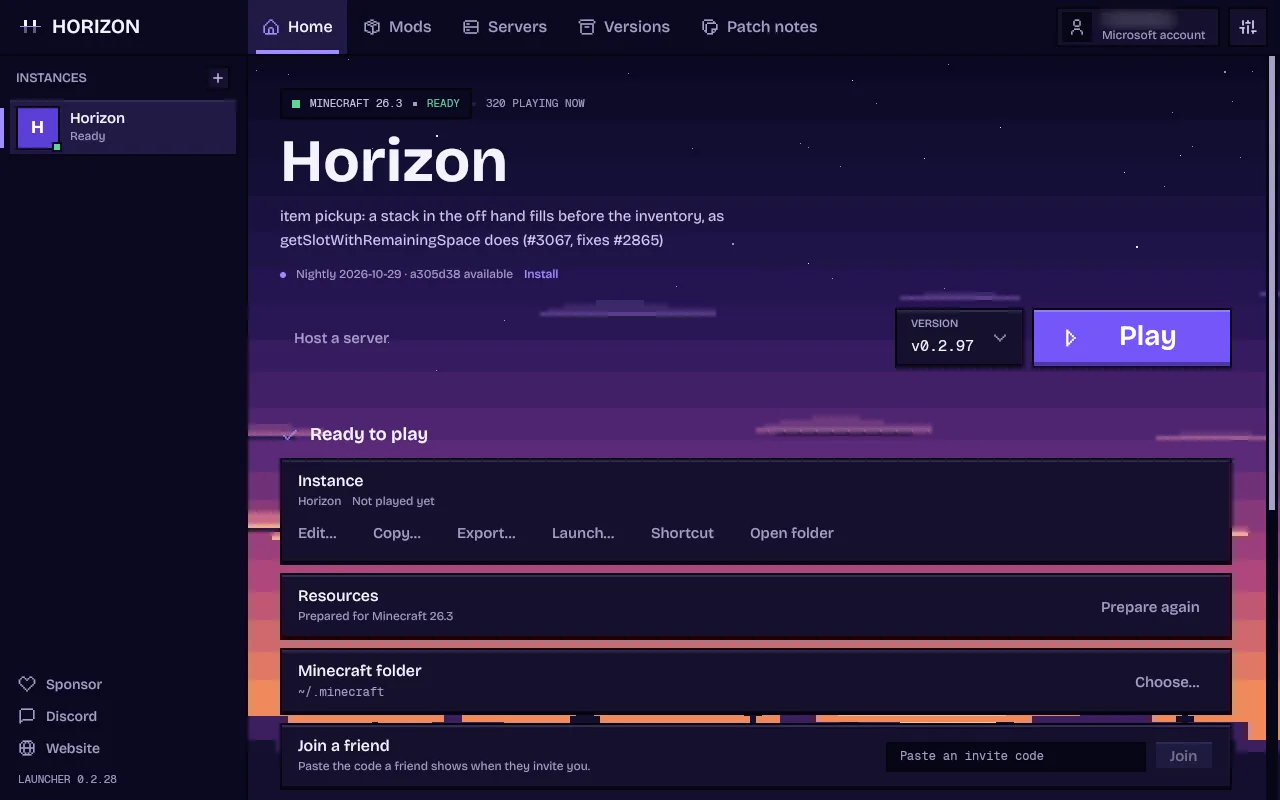
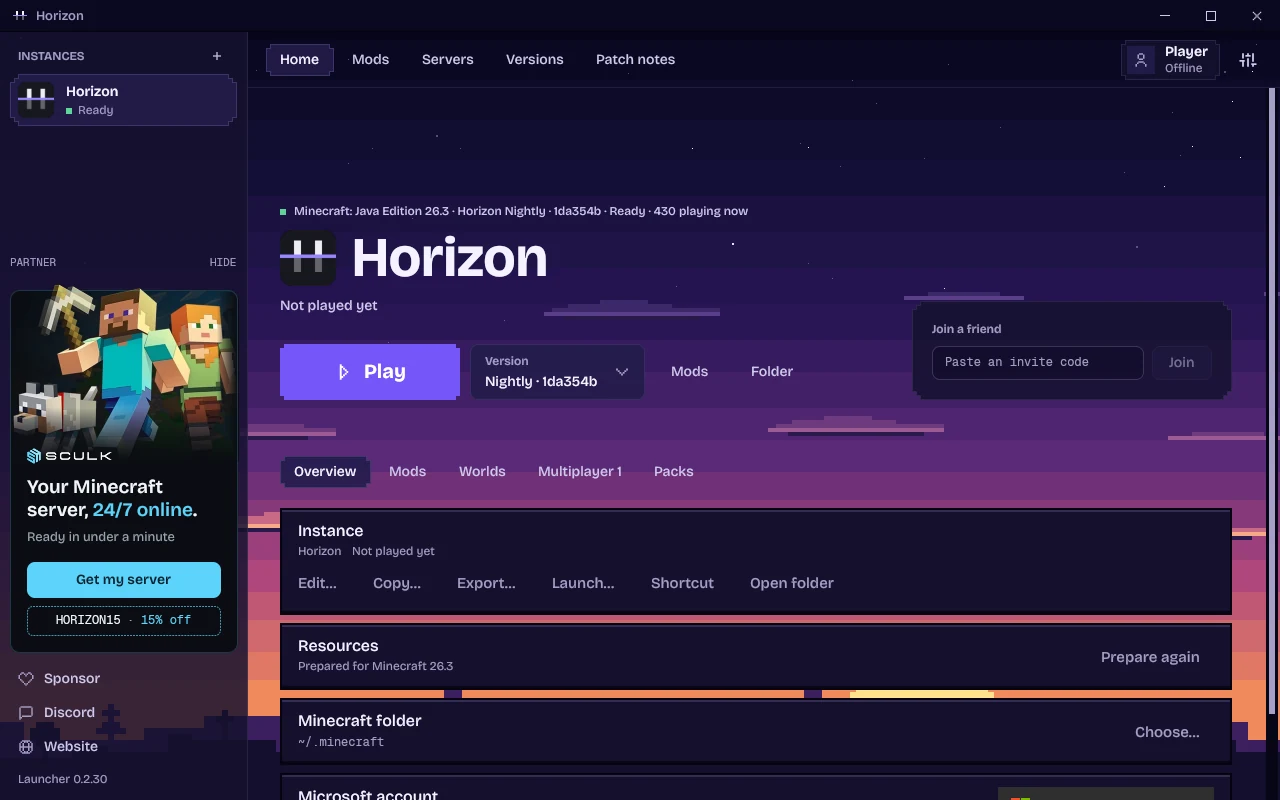
README: shorter text, launcher screenshots from 0.2.30
Trims each section to what a reader needs and links the docs for the
rest, about 35% fewer words. The generated gap block and the parity
table's format are unchanged (tests/test_parity*.py).

The Home and Settings screenshots were taken with launcher 0.2.30, which
moved the window to the new layout (instance tabs, Join a friend, accent
colours); the old ones showed 0.2.28.

diff --git a/README.md b/README.md
@@ -24,34 +24,32 @@
 
 # Horizon
 
-Horizon is Minecraft: Java Edition 26.3 rewritten in Rust: a native game that reads the same worlds, follows the same rules and generates the same terrain as the Java game, and is checked against it by more than 300 differential harnesses. You play it through a small launcher, on the files from your own copy of Minecraft. It is free, open source and unofficial.
+Minecraft: Java Edition 26.3, rewritten in Rust. Same worlds, same rules, same terrain, checked against the Java game by more than 300 differential harnesses. Free, open source and unofficial.
 
-> Not an official Minecraft product. Not approved by or associated with Mojang or Microsoft. Horizon contains no Minecraft code, assets or data: you need your own legally obtained copy of Minecraft: Java Edition 26.3.
+> Not an official Minecraft product, nor approved by or associated with Mojang or Microsoft. Horizon contains no Minecraft code, assets or data: you need your own copy of Java Edition 26.3.
 
 ## Download
 
-Horizon is installed through **the Horizon launcher**. Get it from [playhorizon.dev](https://playhorizon.dev) (the Download button picks your system) or from [the launcher releases](https://github.com/horizon-rust/horizon/releases?q=launcher-v&expanded=true), for Linux x86-64, macOS on Apple Silicon or Windows x64. The launcher installs the game and keeps it up to date with each new build (Horizon ships on one channel, the Nightly), prepares its files from your copy of Minecraft (your own install, or downloaded from Mojang for your account), and updates itself.
+Get **the Horizon launcher** from [playhorizon.dev](https://playhorizon.dev) or [the launcher releases](https://github.com/horizon-rust/horizon/releases?q=launcher-v&expanded=true) (Linux x86-64, macOS on Apple Silicon, Windows x64). It installs and updates the game, prepares its files from your copy of Minecraft, and updates itself.
 
-**You need** a Microsoft account that owns Minecraft: Java Edition (the launcher signs in with it, as other launchers do; see [Microsoft account](docs/microsoft-account.md)) and a GPU with Vulkan or OpenGL 3.3 on Linux, Vulkan or DirectX 12 on Windows, or any Apple Silicon Mac. Nothing else: with no Minecraft on your computer, Play downloads 26.3 and the Java it needs from Mojang for your account, as the official launcher does, then prepares it once. An install you already have (the official launcher, Prism, MultiMC and other launchers all work) is used instead. Step by step, with macOS's first-open prompt and the first launch: [Install and first launch](https://playhorizon.dev/docs/install).
+**You need** a Microsoft account that owns Java Edition ([why](docs/microsoft-account.md)) and a GPU with Vulkan or OpenGL 3.3 (Linux), Vulkan or DirectX 12 (Windows), or an Apple Silicon Mac. An existing Minecraft install (official launcher, Prism, MultiMC...) is reused; without one, Play downloads 26.3 from Mojang for your account. Step by step: [Install and first launch](https://playhorizon.dev/docs/install).
 
 <table>
   <tr>
-    <td width="50%"><img src="docs/media/launcher-play.webp" alt="The launcher's Home page: the selected instance ready to play, Minecraft's prepared files, the version picker and Play"></td>
-    <td width="50%"><img src="docs/media/launcher-settings.webp" alt="The launcher's Settings page: account, updates and appearance"></td>
+    <td width="50%"><img src="docs/media/launcher-play.webp" alt="The launcher's Home page: the selected instance ready to play, the version picker, Join a friend and the instance's tabs"></td>
+    <td width="50%"><img src="docs/media/launcher-settings.webp" alt="The launcher's Settings page: Microsoft account, offline name, updates, appearance and accent colour"></td>
   </tr>
 </table>
 
 ## What works today
 
-The [documentation](https://playhorizon.dev/docs/) covers each of these.
+- **The game:** vanilla world generation, mobs, villagers, raids, redstone, every command, the HUD and the recipe book, on vanilla saves. Worlds from 1.8 to 26.2 are upgraded. [Status](#project-status).
+- **Extras:** new menus, graphics presets, distant terrain up to 1024 chunks, controllers, zoom, minimap and more, off by default where they change the vanilla look. [Settings](https://playhorizon.dev/docs/settings).
+- **Packs:** resource packs, and data packs with functions, predicates, item modifiers and world generation.
+- **Multiplayer:** invite friends with a code, Open to LAN, join servers (online mode included). [Multiplayer](https://playhorizon.dev/docs/multiplayer).
+- **Mods:** content mods (blocks, items, data) and native Rust mods, built by the launcher with nothing to install. Java mod jars do not run. [Mods](https://playhorizon.dev/docs/mods).
 
-- **The game:** singleplayer with vanilla's world generation, mobs, villagers, raids, redstone, every command, the HUD and the recipe book, on saves in vanilla's format. Worlds from 1.8 to 26.2 are upgraded as vanilla does. [Status table](#project-status).
-- **Horizon's own extras:** new menus (vanilla's are one setting away), graphics presets, distant terrain up to 1024 chunks, controller support, optional zoom, minimap and more, all off by default where they would change the vanilla look. See [Settings](https://playhorizon.dev/docs/settings).
-- **Resource packs and data packs:** resource packs work, and data packs load functions, predicates, item modifiers and world generation, taller levels included (vanilla's biomes for now).
-- **Playing with others:** invite friends from the pause menu's Friends button with a code, Open to LAN, and joining servers, online-mode ones with the Microsoft account the launcher signs in with. See [Multiplayer](https://playhorizon.dev/docs/multiplayer).
-- **Mods:** content mods add blocks, items and data, and native mods change the game's own Rust code, built by the launcher on your copy, with no Rust to install. Horizon's own (Zoom, FPS Counter, Keystrokes, Minimap, Recipes and Coordinates HUD) are native mods. Java mod jars do not run in Horizon. See [Mods and data packs](https://playhorizon.dev/docs/mods).
-
-Screenshots, captured in the Rust client itself with vanilla assets and no mods or shaders:
+In the Rust client, with vanilla assets and no mods or shaders:
 
 <table>
   <tr>
@@ -69,15 +67,15 @@ Screenshots, captured in the Rust client itself with vanilla assets and no mods 
 
 ## Host a server
 
-The launcher's **Servers** page creates, starts, backs up and updates a Horizon server with buttons, and invites friends over Tailscale. On a VPS, `horizon-server` installs with one command and runs without Java. Guide: [Host a server](https://playhorizon.dev/docs/hosting) ([reference](docs/hosting.md)).
+The launcher's **Servers** page creates, starts, backs up and updates a server, and invites friends over Tailscale. On a VPS, `horizon-server` installs with one command and needs no Java. [Host a server](https://playhorizon.dev/docs/hosting) ([reference](docs/hosting.md)).
 
 ## Modpacks
 
-The launcher's **Modpacks** page imports a Modrinth or CurseForge pack, shows which of its mods Horizon can carry over, and plays the ones it can as their own profile. Today that means content mods made of data and assets; mods with Java code are not ported yet. See [Modpacks](https://playhorizon.dev/docs/modpacks).
+The launcher imports Modrinth and CurseForge packs and plays the mods Horizon can carry over: today, content mods made of data and assets, not Java code. [Modpacks](https://playhorizon.dev/docs/modpacks).
 
 ## Agent control
 
-AI agents and scripts can play Horizon. `horizon-ctl`, shipped beside the game in every release folder, is a command line that reads the game as JSON and acts like a player; `horizon-ctl mcp` serves the same commands as an MCP server (one tool per command, screenshots returned as images).
+AI agents and scripts can play Horizon. `horizon-ctl`, shipped with the game, reads its state as JSON and acts like a player; `horizon-ctl mcp` serves the same commands over MCP.
 
 ```sh
 horizon-ctl launch --world Survival --seed 5 --wait   # finds the version the launcher installed
@@ -88,16 +86,14 @@ horizon-ctl break -1 65 -3                              # mines it; replies with
 horizon-ctl open-inventory && horizon-ctl click-slot 0  # menus: slots, buttons by label, text fields
 ```
 
-Commands block until the action is done and reply with what happened; errors are JSON with distinct exit codes, `horizon-ctl help` lists every command and `horizon-ctl COMMAND --help` explains one with examples. It talks to the game over a Unix socket on Linux and macOS and over a token-protected localhost port on Windows. See [Agent control in the native client guide](docs/native-client.md#agent-control-horizon-ctl-and-mcp).
+Commands block until done and reply with the result; `horizon-ctl help` lists them all. [Agent control](docs/native-client.md#agent-control-horizon-ctl-and-mcp).
 
 ## Build from source
 
-For developers. Requirements: Rust 1.90 or newer, Python 3.10 or newer, JDK 25, and on Linux the ALSA and udev development headers (`libasound2-dev libudev-dev` on Debian and Ubuntu). Development and the vanilla harnesses run on Linux.
+Needs Rust 1.90+, Python 3.10+, JDK 25, and on Linux `libasound2-dev libudev-dev`. `horizon-prepare` builds the game's resources from **your own copy** of Java Edition 26.3 (checked against `research-lock.json`) and never downloads it:
 
-Horizon contains no game files, and `horizon-prepare` never downloads them (the launcher downloads them from Mojang only for a signed-in account that owns the game). It builds its resources from **your own copy** of Minecraft: Java Edition 26.3, verified against the checksums in `research-lock.json`:
-
-1. **Client:** install Java Edition with the official launcher and play 26.3 once. Horizon reads `versions/26.3/`, `libraries/` and `assets/` from the launcher's game directory (`~/.minecraft` on Linux). If yours lives elsewhere, pass `--minecraft-dir` or set `HORIZON_MINECRAFT_DIR`.
-2. **Server jar:** the 26.3 server jar, from the `downloads.server.url` in your launcher's `versions/26.3/26.3.json` (or [minecraft.net/download/server](https://www.minecraft.net/en-us/download/server) while 26.3 is the current release). Pass it with `--server-jar` or set `HORIZON_SERVER_JAR`. It is only needed the first time.
+1. **Client:** play 26.3 once in the official launcher. Horizon reads `~/.minecraft` (or `--minecraft-dir` / `HORIZON_MINECRAFT_DIR`).
+2. **Server jar:** the 26.3 server jar (`downloads.server.url` in `versions/26.3/26.3.json`), passed once with `--server-jar` or `HORIZON_SERVER_JAR`.
 
 ```sh
 git clone https://github.com/horizon-rust/horizon.git
@@ -107,62 +103,49 @@ cargo run --release -p horizon-prepare -- sounds   # optional: sounds from your 
 cargo run --release -p horizon-client
 ```
 
-Everything prepared lands in the gitignored `.local/`. It is derived from the game: never commit it or share it.
-
-The client starts on the title screen. Command-line options (`--world`, `--seed`, `--creative`, `--render-distance`, `--dedicated`), controls, scripting through `horizon-ctl` and the architecture are described in [the native client guide](docs/native-client.md). The rest of the developer documentation is indexed in [docs/README.md](docs/README.md), including [the parity workflow](docs/parity-workflow.md).
+Prepared files land in the gitignored `.local/`: never commit or share them. Options, controls and architecture: [the native client guide](docs/native-client.md); all developer docs: [docs/README.md](docs/README.md).
 
 ## Roadmap
 
-What is being done now, what comes next and where you can help, in plain words and in technical detail: [ROADMAP.md](ROADMAP.md). [playhorizon.dev/hub](https://playhorizon.dev/hub) shows it with the work board, the journal of what shipped and how to help.
+What is in progress, what comes next and where to help: [ROADMAP.md](ROADMAP.md), or [playhorizon.dev/hub](https://playhorizon.dev/hub) with the work board and what shipped.
 
 ## Contributing
 
-Issues and pull requests are welcome: see [CONTRIBUTING.md](CONTRIBUTING.md) for how we work (vanilla first, small pull requests, labels), or [the contributing guide](https://playhorizon.dev/docs/contributing) on the site. Questions and ideas: [Discord](https://discord.gg/HcTeMZxe5E). Before opening a pull request, run the self-check and paste the block it prints:
+Issues and pull requests are welcome: read [CONTRIBUTING.md](CONTRIBUTING.md) (vanilla first, small pull requests). Questions: [Discord](https://discord.gg/HcTeMZxe5E). Before a pull request, run the self-check and paste its output:
 
 ```sh
 git config core.hooksPath .githooks
 python3 tools/pr_ready.py
 ```
 
-It runs rustfmt, clippy with warnings denied, the tests of the crates you touched, the Python tests, the public-tree check, and the vanilla harnesses your change can affect. CI runs the same checks on GitHub's Linux runners; the vanilla harnesses need the game, which Horizon never downloads, so they run on a maintainer's computer holding their own copy. Never commit game files, decompiled source or prepared resources: `tools/check_public_tree.py` rejects them, and tracked Java is allowed only under the project's own `dev/horizonlab` namespace.
+It runs rustfmt, clippy, the touched crates' tests, the Python tests, the public-tree check and the vanilla harnesses your change affects. Never commit game files, decompiled source or prepared resources.
 
 ## Project status
 
 **Player-visible gaps: 833 open** of the 833 the [port ledger](tools/port_ledger.py) found, reading every vanilla 26.3 method against Horizon's code: vanilla behaviour a player would notice that Horizon doesn't have yet. By area: Screens, HUD and client packets [197](https://github.com/horizon-rust/horizon/issues/3518); Entity and block rendering, models [129](https://github.com/horizon-rust/horizon/issues/3519); Animals [110](https://github.com/horizon-rust/horizon/issues/3512); Server and players on the server [106](https://github.com/horizon-rust/horizon/issues/3520); Blocks, redstone and fluids [86](https://github.com/horizon-rust/horizon/issues/3516); Entities, projectiles, vehicles and decorations [64](https://github.com/horizon-rust/horizon/issues/3514); Monsters and bosses [53](https://github.com/horizon-rust/horizon/issues/3513); Mob AI, villagers and raids [35](https://github.com/horizon-rust/horizon/issues/3521); World, world generation and saves [32](https://github.com/horizon-rust/horizon/issues/3517); Items, enchantments and inventories [21](https://github.com/horizon-rust/horizon/issues/3515). This number goes down as gaps close (`tools/parity_gaps.py`); the harness results below say that what is tested matches.
 
-The table below is the project's own audit of each subsystem. Every subsystem now matches vanilla in every harness that compares it. 100% means 100% of what the harnesses compare, not proof that nothing else differs. The remaining known differences are listed below.
+The table is the project's own audit: every subsystem matches vanilla in every harness that compares it. 100% means 100% of what the harnesses compare, not that nothing else differs.
 
 ### Java parity: 100%
 
-Each subsystem scores 0 (absent), 0.25 (started, not playable), 0.5 (playable,
-major vanilla features missing), 0.75 (playable, mostly complete) or 1 (complete
-and verified against vanilla by differential tests). The percentage is the
-average; `tests/test_parity.py` keeps it in sync with this table. Last audited
-2026-10-13 against the harness results: all 281 harnesses pass on Linux, each
-rerun whenever one of its inputs changed, and the Mac mini now runs every one of
-them too (Rust uses Java's own float maths on each platform).
-
-The harnesses measure behaviour. A second measure is method by method: the [port ledger](tools/port_ledger.py)
-lists every method of vanilla 26.3 next to the Rust functions that port it, with a verdict for each one
-(ported, folded into another function, missing, or needing no port), and the untested ports. Run
-`python3 tools/port_ledger.py build`, then `coverage`, with the vanilla data in `.local/`.
+Scores: 0 (absent), 0.25 (started), 0.5 (playable, major features missing), 0.75 (mostly complete) or 1 (complete and verified by differential tests); the percentage is their average. Last audited 2026-10-13: all 281 harnesses pass on Linux and macOS. The [port ledger](tools/port_ledger.py) adds a method-by-method view of what is ported.
 
 | Subsystem | Score | Main gaps |
 | --- | ---: | --- |
-| Window, input and game loop | 1 | None: the game loop, options, camera, auto-jump, toggle sprint/sneak, local input and the frame limiter match vanilla |
-| Assets and resources | 1 | None: item models match vanilla over 196,290 stacks and the client draws every item through them; the resource pack screen matches vanilla's drawing over 3,000 sessions of clicks, scrolling and searching, its incompatibility confirmation included |
-| Network protocol and multiplayer | 1 | None: joins vanilla servers; the dedicated server (`--dedicated`) matches vanilla's files, status ping, login, configuration, play, chunks, chat, recipes, advancements and command tree, a client built from vanilla's packet code joins it, Horizon joins a vanilla server, and LAN discovery matches over 462 cases (offline mode only) |
+| Window, input and game loop | 1 | None: game loop, options, camera, auto-jump, toggle sprint/sneak and frame limiter match |
+| Assets and resources | 1 | None: item models match over 196,290 stacks; the resource pack screen over 3,000 sessions |
+| Network protocol and multiplayer | 1 | None: joins vanilla servers; the dedicated server matches vanilla's files, login, configuration, play and command tree; LAN discovery over 462 cases (offline mode only) |
 | Chunk storage and palettes | 1 | None: client and saves share paletted containers, identical to vanilla over 266 scenarios |
 | Section meshing | 1 | None: 112 scenes and over a million quads identical to vanilla |
-| Rendering | 1 | None: entity models, block entity renderers (407 cases, End portals, gateways and the loom's banner preview included) and their animations (296 cases, End gateway beams included), the HUD overlays (2,200 states), the recipe book (600 states), the player list, subtitles and the world border match vanilla |
+| Rendering | 1 | None: entity models, block entity renderers (407 cases) and animations (296), HUD overlays (2,200 states), the recipe book (600), player list, subtitles and world border match |
 | Lighting | 1 | None: saved and relit light matches vanilla, slabs and stairs included |
 | World generation | 1 | None: 2,352 whole chunks over 225 structure sites, in all three dimensions, identical to vanilla |
-| Region files and saves | 1 | None: saves round-trip with vanilla, and worlds from 1.8 to 26.2 upgrade as vanilla's DataFixers do, superflat worlds included; old options.txt and hotbar.nbt files are upgraded too |
-| Entities and physics | 1 | None: attributes, dimensions, death loot, spawn rules, natural spawning (15,500 cases), raids and patrols (1,900 cases), spawned mobs' gear, enchantments and state (`finalizeSpawn`, 24,000 cases) and mob AI (92 scenarios: villager breeding and gossip, the warden, ghastlings and copper golems included) match vanilla |
-| Interaction and inventory | 1 | None: menu clicks match over 8,000 click sequences, the loom and the crafter included; recipe book placement (6,000 cases), its buttons (1,200), the saved book (1,500) and the loom and crafter screens (1,600) match vanilla |
-| Menus, HUD and chat | 1 | None: every command runs as vanilla (758 commands over 39,685 parsed inputs), scoreboards and teams match (81,000 operations), the player list matches over 872,000 draw calls with heads drawn from players' skins (authlib's textures, SkinManager's lookup, legacy skin conversion), and the chat matches focused and scrolled; the resource pack screen (selection over 4,000 cases, drawing and its incompatibility confirmation over 3,000 sessions) and the chat input with its command suggestions, usage lines, Tab completion and history (3,000 sessions on vanilla's client command tree) match vanilla |
+| Region files and saves | 1 | None: saves round-trip with vanilla; worlds from 1.8 to 26.2 upgrade as vanilla's DataFixers do |
+| Entities and physics | 1 | None: attributes, spawn rules, natural spawning (15,500 cases), raids and patrols (1,900), `finalizeSpawn` (24,000) and mob AI (92 scenarios) match |
+| Interaction and inventory | 1 | None: menu clicks over 8,000 sequences; recipe book placement (6,000), buttons (1,200), saved book (1,500), loom and crafter screens (1,600) |
+| Menus, HUD and chat | 1 | None: every command (758 over 39,685 inputs), scoreboards (81,000 operations), the player list (872,000 draw calls), chat and its suggestions (3,000 sessions) match |
 | Audio | 1 | None: the sound engine, sound events, music, situational music, ambience and subtitles match vanilla |
-| Block behaviours and ticking | 1 | None: block updates, random ticks, redstone, dispensers (6,000 cases), crafters (4,000 crafts), block entity removal (containers spill, 4,000 cases), copper golem chest sorting and the sculk family (435 scenarios: shrieker warnings and warden summoning included) match vanilla |
+| Block behaviours and ticking | 1 | None: block updates, random ticks, redstone, dispensers (6,000 cases), crafters (4,000), container spills (4,000), copper golems and the sculk family (435 scenarios) match |
 
 ### Known issues
 
@@ -170,9 +153,7 @@ Skins served over https show the default skin unless already cached; pack icons 
 
 ## Licence
 
-[MIT](LICENSE), for the project's original work only. Dependencies keep their own licences. Minecraft is a trademark of Mojang Synergies AB; Minecraft code and assets belong to Mojang and Microsoft and are covered by the [Minecraft EULA](https://www.minecraft.net/en-us/eula). Decompiled game source and prepared resources stay on your machine and are never published.
-
-Third-party credits and licenses: [Third-party notices](THIRD_PARTY_NOTICES.md).
+[MIT](LICENSE), for the project's original work; dependencies keep their own licences ([notices](THIRD_PARTY_NOTICES.md)). Minecraft is a trademark of Mojang Synergies AB; its code and assets belong to Mojang and Microsoft under the [Minecraft EULA](https://www.minecraft.net/en-us/eula).
 
 ## Author
 
